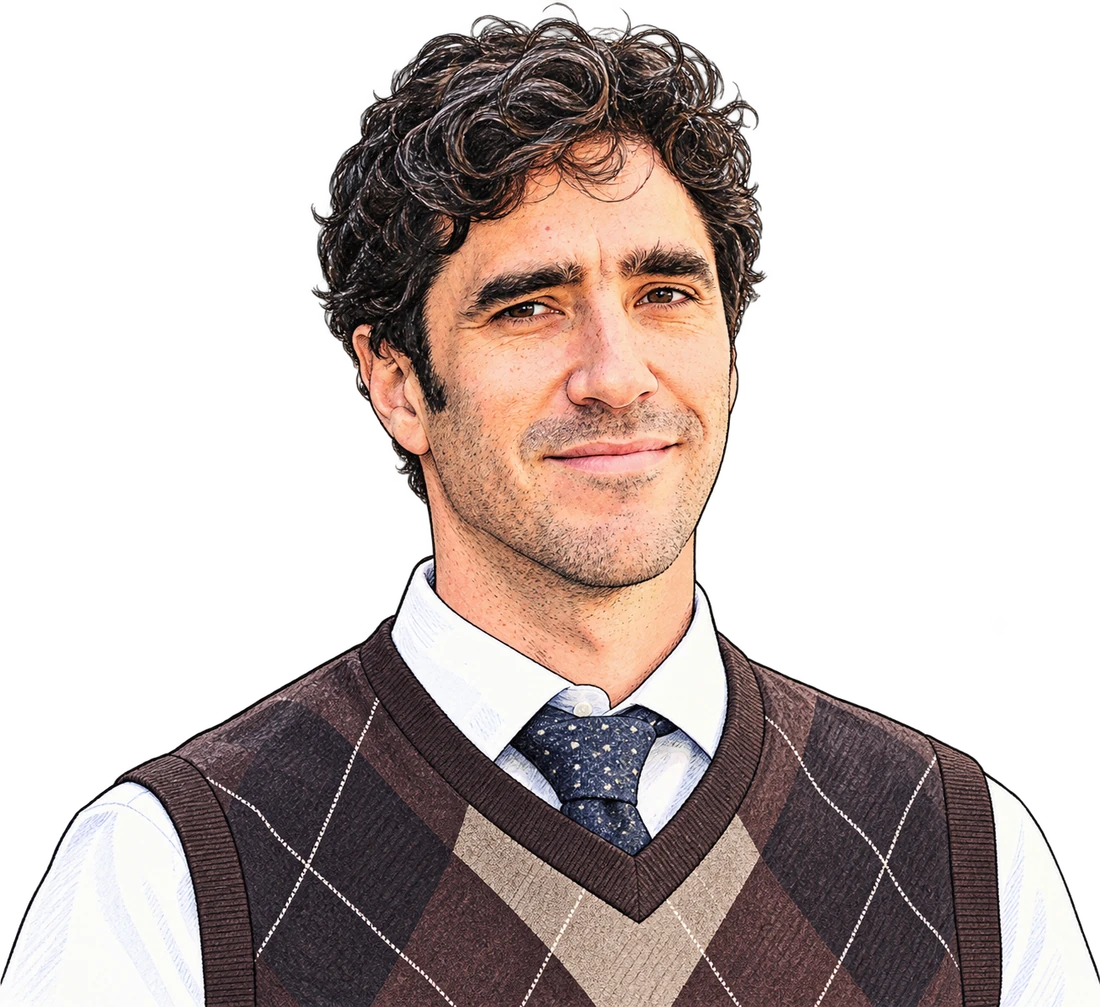
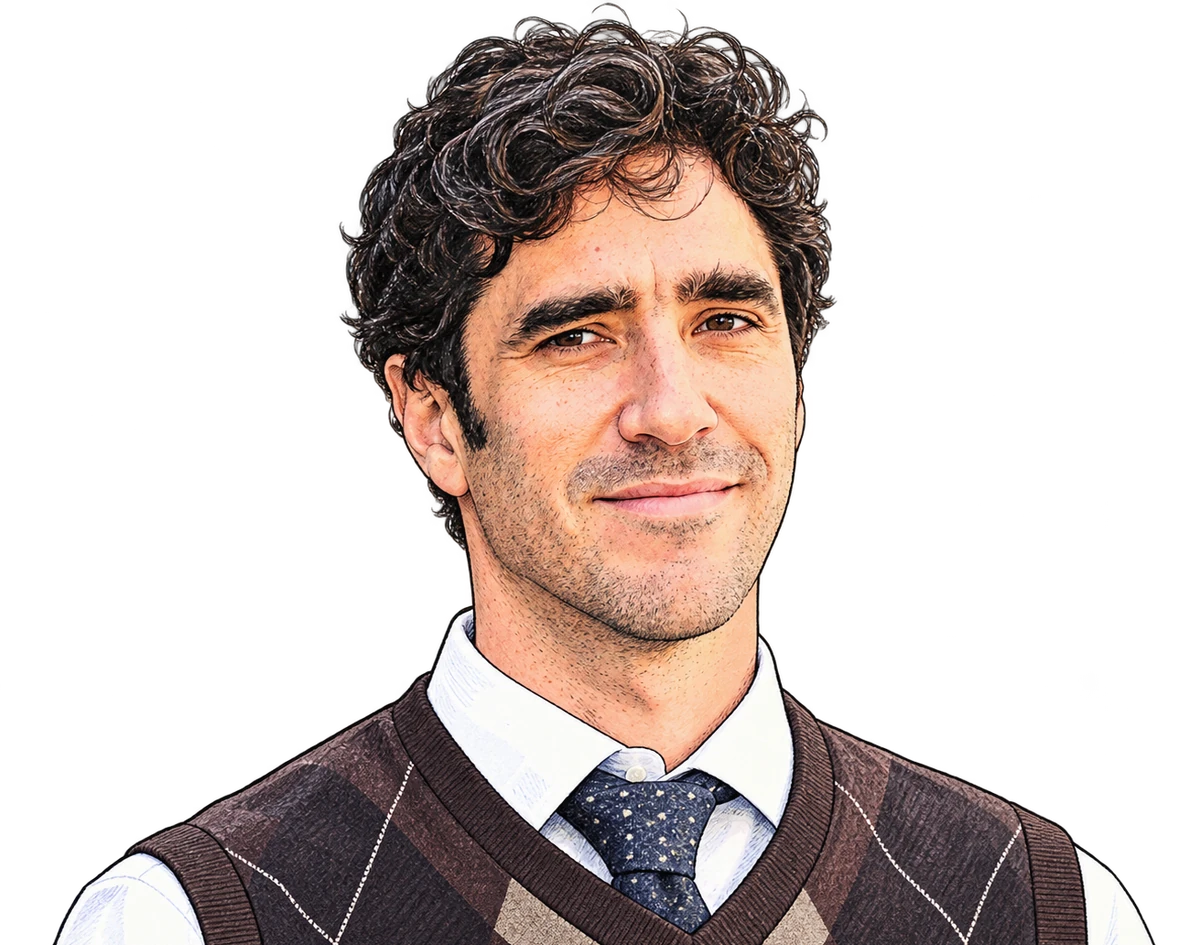
Landing: larger portrait with tighter crop so the face balances the bio

diff --git a/assets/css/theme.scss b/assets/css/theme.scss
@@ -49,14 +49,14 @@ a:hover { text-decoration: underline; }
 // Landing: cut-out photo left, bio right; stacks on narrow screens.
 .landing {
   display: grid;
-  grid-template-columns: minmax(0, 1fr) minmax(0, 1.1fr);
+  grid-template-columns: minmax(0, 1.1fr) minmax(0, 1fr);
   gap: 3.5rem;
   align-items: center;
   margin: 3.5rem 0 4rem;
 }
 .landing-photo img {
   width: 100%;
-  max-width: 470px;
+  max-width: 580px;
   display: block;
   margin: 0 auto;
   filter: drop-shadow(0 0 5px rgba(0,0,0,.32)) drop-shadow(0 1px 2px rgba(0,0,0,.18));
@@ -69,7 +69,7 @@ a:hover { text-decoration: underline; }
 .landing-links a { color: $yale-blue; font-weight: 700; }
 @media (max-width: 760px) {
   .landing { grid-template-columns: 1fr; gap: 1.5rem; margin-top: 1.5rem; }
-  .landing-photo img { max-width: 320px; }
+  .landing-photo img { max-width: 360px; }
   .navbar .navbar-title::after { display: block; margin-left: 0; font-size: .75rem; }
 }
 
